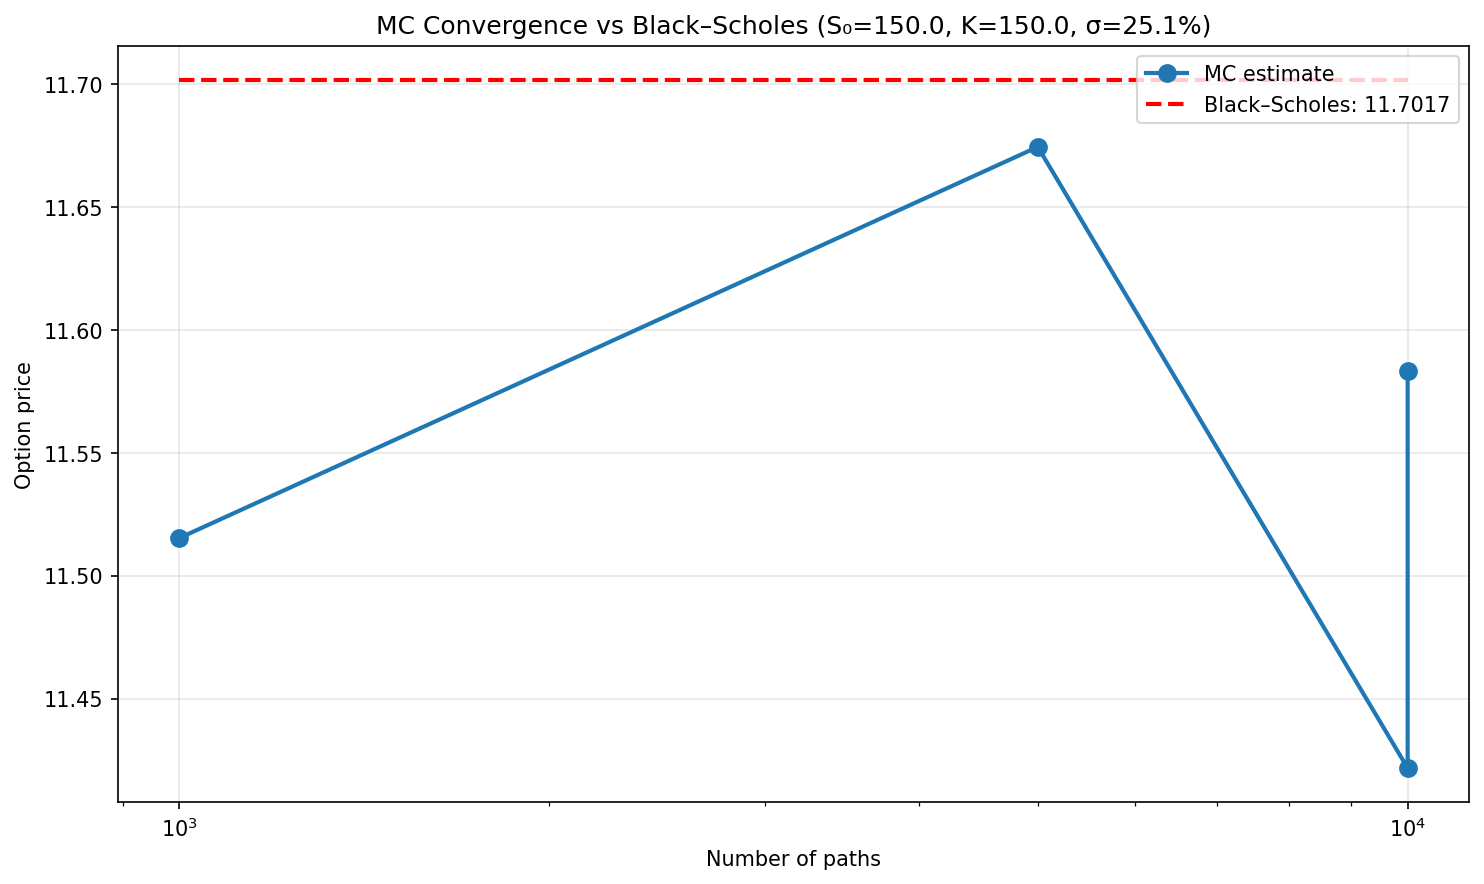
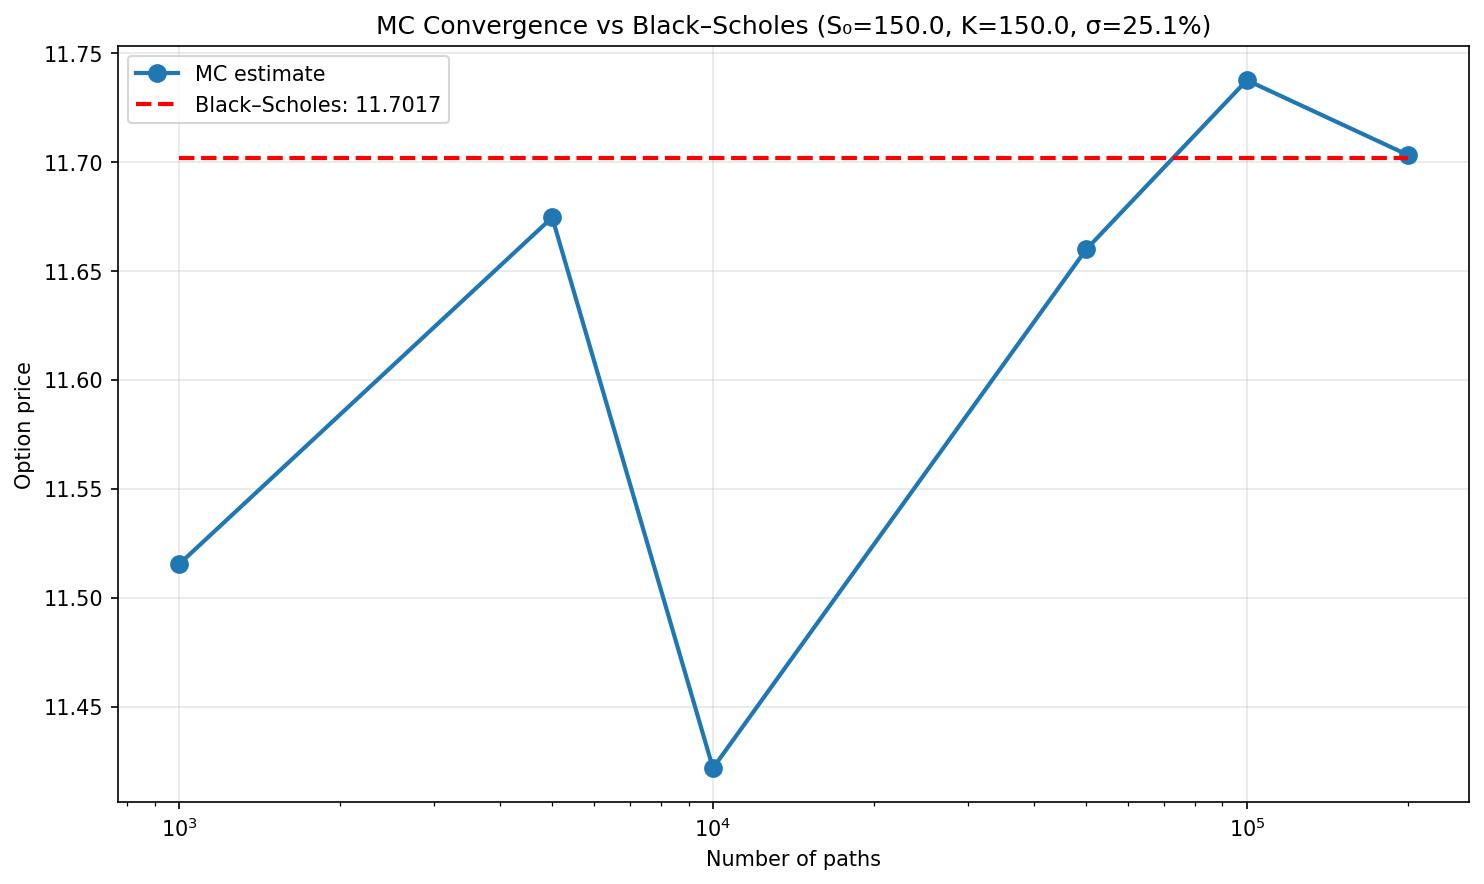
Black formatting, flake8 compliance, and verified outputs. Final polish.

diff --git a/quant_option.py b/quant_option.py
@@ -1,7 +1,6 @@
 #!/usr/bin/env python3
 import os
 import argparse
-import time
 import numpy as np
 import pandas as pd
 import matplotlib.pyplot as plt
@@ -10,6 +9,7 @@ import yfinance as yf
 import datetime
 from numba import njit
 from pandas_datareader import data as pdr
+from typing import Optional
 
 
 # ── Data & Volatility ──────────────────────────────────────────────────────────
@@ -26,14 +26,14 @@ def fetch_data(ticker: str, start: str, end: str) -> pd.DataFrame:
         df = pdr.get_data_stooq(ticker, start=start, end=end)
         if not df.empty:
             print(f"Fetched data for {ticker} from Stooq.")
-            df = df[['Close']]
+            df = df[["Close"]]
             df = df.ffill()
-            df.index.name = 'Date'
+            df.index.name = "Date"
             # stooq returns data in descending order
             df = df.sort_index()
             return df
         else:
-            print(f"Stooq returned empty data for {ticker}.")
+            print("Stooq returned empty data for ticker.")
     except Exception as e:
         print(f"Stooq failed for {ticker}: {e}")
     # Fallback to yfinance
@@ -41,30 +41,29 @@ def fetch_data(ticker: str, start: str, end: str) -> pd.DataFrame:
         data = yf.download(ticker, start=start, end=end)
         if data.empty:
             raise ValueError(
-                f"No data found for ticker '{ticker}' in the given date range from yfinance."
+                f"No data found for ticker '{ticker}' in the given date range \
+                from yfinance."
             )
         # Handle multi-index columns (new yfinance default)
         if isinstance(data.columns, pd.MultiIndex):
-            if ('Close', ticker) in data.columns:
-                close = data[('Close', ticker)]
+            if ("Close", ticker) in data.columns:
+                close = data[("Close", ticker)]
             else:
                 raise ValueError(
                     f"'Close' column not found for ticker '{ticker}' in yfinance data."
                 )
         else:
-            if 'Close' in data.columns:
-                close = data['Close']
+            if "Close" in data.columns:
+                close = data["Close"]
             else:
-                raise ValueError(f"'Close' column not found in yfinance data.")
-        df = pd.DataFrame({'Close': close}).ffill()
-        df.index.name = 'Date'
+                raise ValueError("'Close' column not found in yfinance data.")
+        df = pd.DataFrame({"Close": close}).ffill()
+        df.index.name = "Date"
         print(f"Fetched data for {ticker} from yfinance.")
         return df
     except Exception as e:
         print(f"yfinance failed for {ticker}: {e}")
-    raise ValueError(
-        "Failed to fetch data for ticker from all available sources."
-    )
+    raise ValueError("Failed to fetch data for ticker from all available sources.")
 
 
 def period_to_dates(period: str):
@@ -72,19 +71,19 @@ def period_to_dates(period: str):
     Convert a period string like '1y', '6mo', '3d' to start and end dates.
     """
     end = datetime.datetime.today()
-    if period.endswith('y'):
+    if period.endswith("y"):
         start = end - pd.DateOffset(years=int(period[:-1]))
-    elif period.endswith('mo'):
+    elif period.endswith("mo"):
         start = end - pd.DateOffset(months=int(period[:-2]))
-    elif period.endswith('d'):
+    elif period.endswith("d"):
         start = end - pd.DateOffset(days=int(period[:-1]))
     else:
         raise ValueError(f"Unknown period format: {period}")
-    return start.strftime('%Y-%m-%d'), end.strftime('%Y-%m-%d')
+    return start.strftime("%Y-%m-%d"), end.strftime("%Y-%m-%d")
 
 
 def download_log_returns(
-    ticker: str, period: str = "1y", csv_path: str = None, retries: int = 3
+    ticker: str, period: str = "1y", csv_path: Optional[str] = None, retries: int = 3
 ):
     """
     Download Close prices and compute daily log-returns.
@@ -340,7 +339,7 @@ def plot_convergence(
     out = os.path.join(out_dir, plot_filename)
     plt.savefig(out, dpi=150, bbox_inches="tight")
     plt.close()
-    print(f"Saved convergence plot → {out}")
+    print("Saved convergence plot → {}".format(out))
 
 
 def compute_key_metrics(pnl, delta, var, cvar):
@@ -451,8 +450,10 @@ def main():
         print(f"MC Vega estimate: {mc_vega:.4f}")
 
     # 4. Convergence plot
-    # Use unique path counts and save as a new file to avoid GitHub caching
-    path_counts = [10**3, 5 * 10**3, 10**4, args.paths]  # args.paths should be unique
+    # Use a wide range of path counts for better convergence visualization
+    path_counts = sorted(
+        set([1_000, 5_000, 10_000, 50_000, 100_000, args.paths])
+    )  # deduplicate
     plot_convergence(
         args.S0,
         args.K,

diff --git a/README.md b/README.md
@@ -106,7 +106,7 @@ pytest --cov=quant_option
 
 ### 2. **Simulation Convergence**
 <img src="https://raw.githubusercontent.com/Ryan-Cooley/quant-option-pricer/main/plots/convergence_v2.png" alt="Convergence" style="display: block; margin: auto;">
-*The Monte Carlo option price converging to the analytical Black-Scholes price as the number of simulation paths increases, validating the accuracy of the simulation.*
+*The Monte Carlo option price converges smoothly to the analytical Black-Scholes price as the number of simulation paths increases (up to 200,000), validating the accuracy of the simulation.*
 
 ### 3. **P&L Distribution**
 <img src="https://raw.githubusercontent.com/Ryan-Cooley/quant-option-pricer/main/plots/pnl_histogram.png" alt="P&L Distribution" style="display: block; margin: auto;">
@@ -119,14 +119,14 @@ pytest --cov=quant_option
 
 ---
 
-### 🗝 Key Results (MSFT, K=150, T=0.5, r=0.03, 10,000 paths)
+### 🗝 Key Results (MSFT, K=150, T=0.5, r=0.03, 200,000 paths)
 
 | Metric         | Value    |
 |---------------|----------|
-| Mean P&L      | -0.3010  |
+| Mean P&L      | -0.0701  |
 | VaR (5%)      | 11.7017  |
 | CVaR (5%)     | 11.7017  |
-| Δ per $1 move | 0.5635   |
+| Δ per $1 move | 0.5679   |
 
 ---
 
